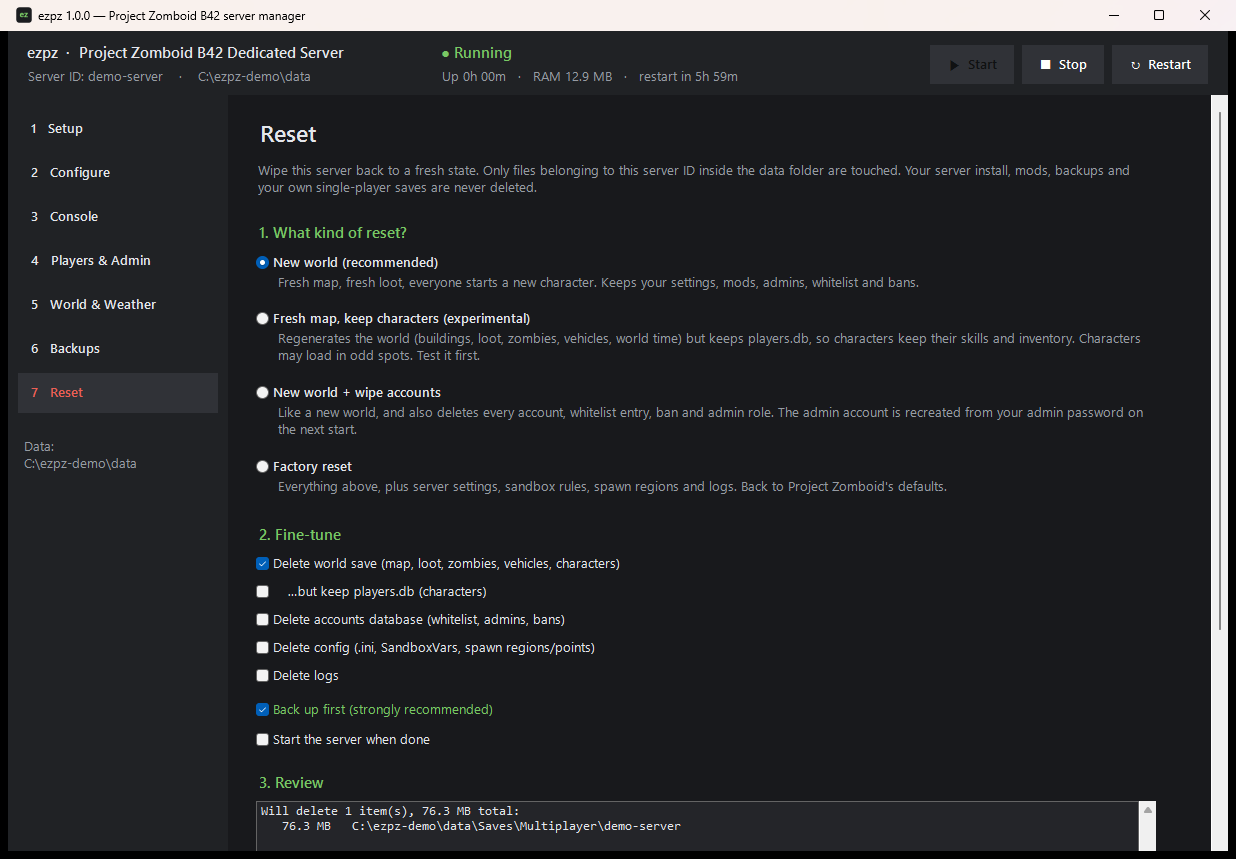
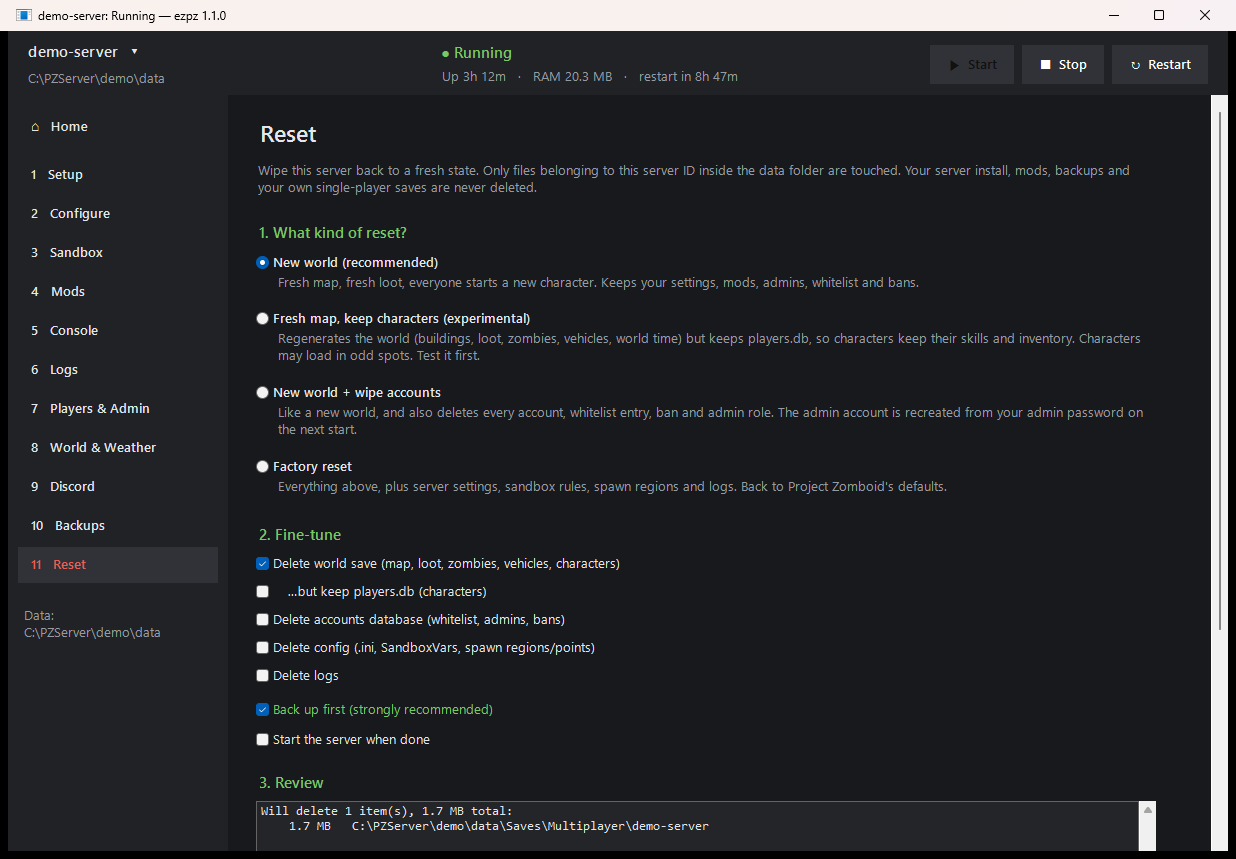
Refresh README screenshots for 1.1.0
New shots of every page from a demo server, plus the splash screen.
Home is now the hero image.

diff --git a/README.md b/README.md
@@ -9,7 +9,7 @@
 </p>
 
 <p align="center">
-  <img src="docs/screenshots/players.png" width="820" alt="ezpz Players & Admin page">
+  <img src="docs/screenshots/home.png" width="820" alt="ezpz Home page">
 </p>
 
 ezpz is a single `.exe` with no installer and no dependencies. It walks you through installing the dedicated server with SteamCMD, configuring it and opening the firewall, then gives you a console, player management, weather controls, backups and a safe **reset** button.
@@ -32,8 +32,12 @@ ezpz is a single `.exe` with no installer and no dependencies. It walks you thro
 
 | | |
 |---|---|
-| ![Setup](docs/screenshots/setup.png) | ![World & Weather](docs/screenshots/world.png) |
-| ![Console](docs/screenshots/console.png) | ![Reset](docs/screenshots/reset.png) |
+| ![Players & Admin, with a character sheet](docs/screenshots/players.png) | ![Logs](docs/screenshots/logs.png) |
+| ![Mods](docs/screenshots/mods.png) | ![Sandbox](docs/screenshots/sandbox.png) |
+| ![Backups](docs/screenshots/backups.png) | ![Console](docs/screenshots/console.png) |
+| ![World & Weather](docs/screenshots/world.png) | ![Discord](docs/screenshots/discord.png) |
+| ![Setup](docs/screenshots/setup.png) | ![Reset](docs/screenshots/reset.png) |
+| ![Splash screen](docs/screenshots/splash.png) | |
 
 ## Requirements
 
